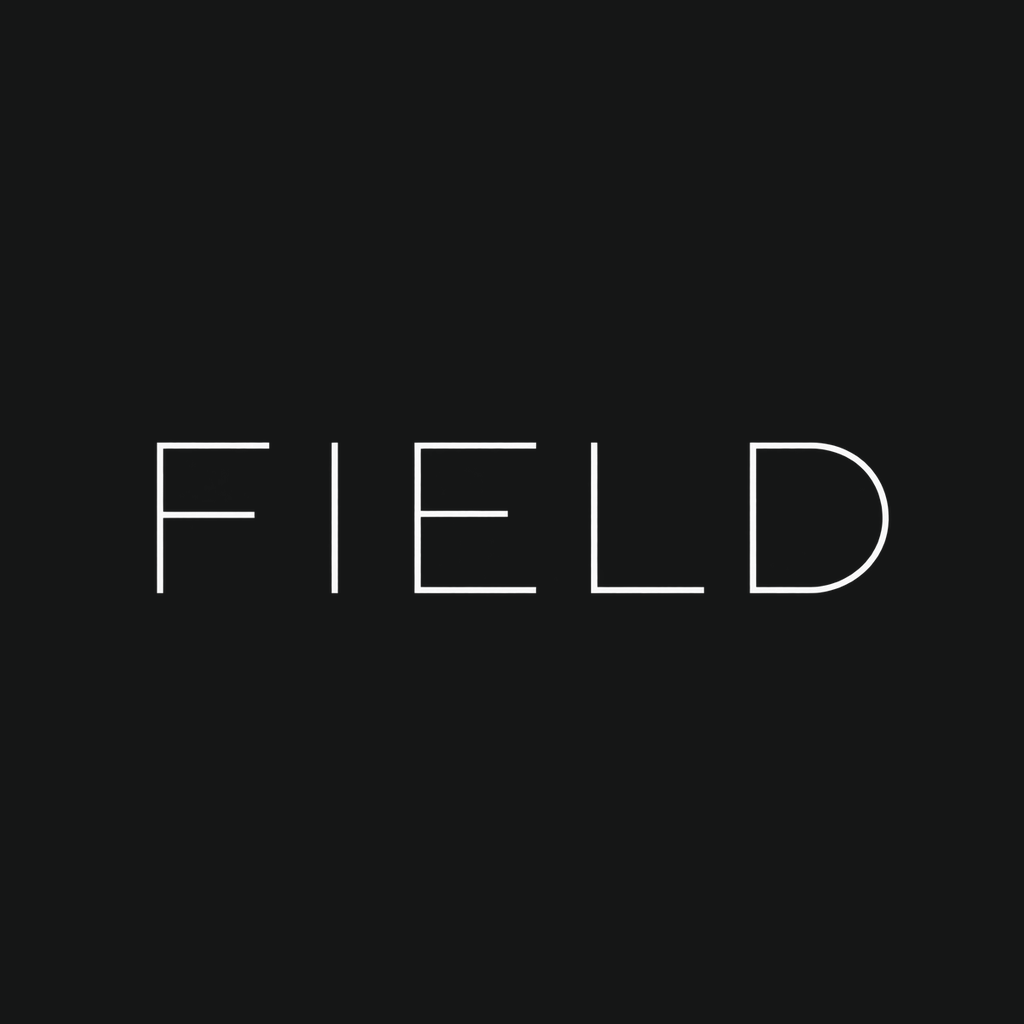
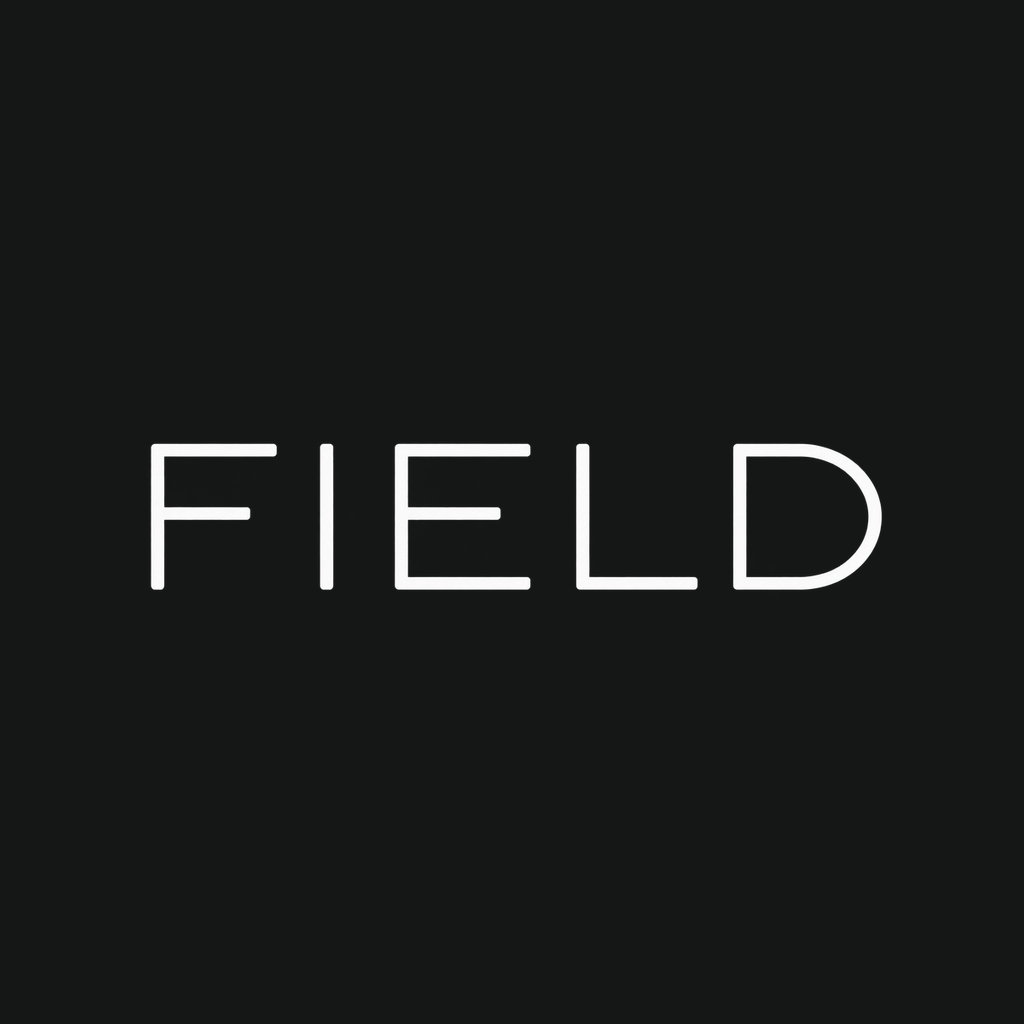
Refresh the FIELD mark and make Workspace FFT show the analyzer.
The new wordmark is the logo and app icon. Horizontal EQ icons sit smaller and closer under the dial. The Workspace header uses one underline style, and the FFT context panel holds analyzer settings instead of EQ filters.

diff --git a/src/manual/content.ts b/src/manual/content.ts
@@ -55,7 +55,7 @@ const en: ManualSection[] = [
       'Technical has two presentations. Classic is the current layout. Workspace (Experimental) reorganizes the same Technical controls: a chain, one active workspace (Wave, EQ, FFT, Auto, or Hearing), contextual controls, and transport. It uses the same audio engine and the same features.',
       'Focus Mode is that same workspace without the surrounding chrome. Enter Focus from the workspace header. Exit Focus returns the chrome without changing the sound, the selection, or the playhead.',
       'Workspace is experimental. Settings → Technical interface → Classic switches back immediately. The choice is saved in this browser. It does not add another mode beside Simple, Technical, and Sensory.',
-      'Hearing in Workspace keeps the selected effect in the context panel. The loudness words sit beside the output meter on the right. Analyzer settings open above the spectrum. History, the picture, the analyzer, and display each keep their own rows, in the same type as the workspace bar.',
+      'FFT in Workspace puts the analyzer settings in the context panel. That panel does not list EQ filters. The FFT bar keeps Before, After, Both, and 2D / 3D. History, the picture, the analyzer, and display each keep their own rows, in the same type as the workspace bar. Hearing in Workspace keeps the selected effect in the context panel. The loudness words sit beside the output meter on the right.',
       'EQ in Workspace opens in the inspector. Each filter is one full-width row: a type selector and the knobs that filter uses. Add band creates the next filter. The graph uses the full height above the transport. An icon in the inspector opens vertical strips under the graph; drag the bar between them to change that panel’s height. An icon at the corner of the strip panel returns to the inspector. FIELD remembers that choice only for EQ. Adding or selecting another effect shows that effect’s inspector.',
     ],
   },
@@ -373,7 +373,7 @@ const pl: ManualSection[] = [
       'Technical ma dwa układy. Klasyczny to dotychczasowy widok. Workspace (eksperymentalny) układa te same kontrolki inaczej: łańcuch, jeden aktywny obszar (Fala, EQ, FFT, Auto albo Hearing), kontrolki kontekstu i transport. Korzysta z tego samego silnika i tych samych funkcji.',
       'Tryb Focus to ten sam obszar bez otaczającej ramki. Wejście jest w nagłówku obszaru. Wyjście przywraca ramkę i nie zmienia dźwięku, zaznaczenia ani głowicy.',
       'Workspace jest eksperymentalny. Ustawienia → Interfejs techniczny → Klasyczny wraca od razu. Wybór zostaje w tej przeglądarce. To nie jest kolejny tryb obok Prostego, Technical i Sensorycznego.',
-      'Hearing w Workspace zostawia wybrany efekt w panelu kontekstu. Słowa głośności stoją obok wskaźnika wyjścia po prawej. Ustawienia analizatora otwierają się nad widmem. Historia, obraz, analizator i wyświetlanie mają osobne rzędy, w tym samym stylu co pasek Workspace.',
+      'FFT w Workspace trzyma ustawienia analizatora w panelu kontekstu. Ten panel nie pokazuje filtrów EQ. Pasek FFT zostawia Before, After, Both oraz 2D / 3D. Historia, obraz, analizator i wyświetlanie mają osobne rzędy, w tym samym stylu co pasek Workspace. Hearing w Workspace zostawia wybrany efekt w panelu kontekstu. Słowa głośności stoją obok wskaźnika wyjścia po prawej.',
       'EQ w Workspace otwiera się w inspektorze. Każdy filtr to jeden rząd na całą szerokość: selektor typu i gałki tego filtra. Dodaj pasmo tworzy kolejny filtr. Wykres zajmuje całą wysokość nad transportem. Ikona w inspektorze otwiera pionowe paski pod wykresem; przeciągnięcie belki między nimi zmienia wysokość tego panelu. Ikona w rogu panelu pasków wraca do inspektora. Ten wybór jest pamiętany tylko dla EQ. Dodanie albo zaznaczenie innego efektu pokazuje jego inspektor.',
     ],
   },

diff --git a/src/components/header/AppHeader.module.css b/src/components/header/AppHeader.module.css
@@ -365,11 +365,73 @@
     row-gap: 0;
   }
 
-  .header.minimal .file,
-  .minimal .file {
-    max-width: 42vw;
-    overflow: hidden;
-    text-overflow: ellipsis;
-    white-space: nowrap;
-  }
+.header.minimal .file,
+.minimal .file {
+  max-width: 42vw;
+  overflow: hidden;
+  text-overflow: ellipsis;
+  white-space: nowrap;
+}
+}
+
+/* Workspace uses one quiet bar: text controls, an underline on the active one. */
+:global([data-technical-ui='workspace']) .header {
+  min-height: 32px;
+  gap: 2px 6px;
+  border-bottom: 1px solid var(--border-subtle);
+}
+
+:global([data-technical-ui='workspace']) .tools,
+:global([data-technical-ui='workspace']) .trailing,
+:global([data-technical-ui='workspace']) .utilities {
+  gap: 0;
+}
+
+:global([data-technical-ui='workspace']) .load,
+:global([data-technical-ui='workspace']) .settings,
+:global([data-technical-ui='workspace']) .lfo,
+:global([data-technical-ui='workspace']) .rec {
+  border: 0;
+  border-radius: 0 !important;
+  background: transparent;
+  height: 32px;
+  min-height: 32px;
+  padding: 0 6px;
+  font-size: 11px;
+  letter-spacing: 0.12em;
+  color: var(--text-secondary);
+}
+
+:global([data-technical-ui='workspace']) .load:hover,
+:global([data-technical-ui='workspace']) .settings:hover,
+:global([data-technical-ui='workspace']) .lfo:hover {
+  background: transparent;
+  color: var(--text-primary);
+}
+
+:global([data-technical-ui='workspace']) .settings[aria-expanded='true'],
+:global([data-technical-ui='workspace']) .lfoOn,
+:global([data-technical-ui='workspace']) .lfoLive {
+  border: 0;
+  background: transparent;
+  color: var(--text-primary);
+  box-shadow: inset 0 -1px 0 var(--accent-primary);
+}
+
+:global([data-technical-ui='workspace']) .rec {
+  color: var(--danger);
+}
+
+:global([data-technical-ui='workspace']) .recOn {
+  border: 0;
+  background: transparent;
+  color: var(--danger);
+  box-shadow: inset 0 -1px 0 var(--danger);
+}
+
+:global([data-technical-ui='workspace']) .meta {
+  gap: 8px;
+  padding: 0 6px;
+  font-size: 11px;
+  letter-spacing: 0.06em;
 }

diff --git a/src/app/App.tsx b/src/app/App.tsx
@@ -79,6 +79,7 @@ import { TechnicalUiSwitch } from '../components/workspace/TechnicalUiSwitch'
 import { WorkspaceTabs } from '../components/workspace/WorkspaceTabs'
 import { ContextBar } from '../components/workspace/ContextBar'
 import { SelectionToolbar } from '../components/workspace/SelectionToolbar'
+import { AnalyzerSettingsMenu } from '../components/workspace/AnalyzerSettingsMenu'
 import { FftPrimaryBar } from '../components/workspace/FftPrimaryBar'
 import { vizForWorkspace, workspaceFromViz, type TechnicalWorkspaceId } from '../components/workspace/workspaces'
 import { countHiddenActivity } from '../components/workspace/disclosure'
@@ -872,9 +873,14 @@ export default function App() {
         </button>
       </p>
     ) : null
+  const fftInspector = workspaceOn && workspaceId === 'fft'
   const inspector = showContext ? (
     <>
-      {resolvedFocus.kind === 'automation' ? (
+      {fftInspector ? (
+        <div className={ws.analyzerPanel} data-fft-inspector="">
+          <AnalyzerSettingsMenu />
+        </div>
+      ) : resolvedFocus.kind === 'automation' ? (
       <AutomationInspector
         sheet={sheet && !isPhoneLayout && activeSheetLevel !== 'expanded'}
         compact={isPhoneLayout}

diff --git a/src/components/header/Wordmark.module.css b/src/components/header/Wordmark.module.css
@@ -12,8 +12,8 @@
 .logo {
   display: block;
   flex: none;
-  height: 18px;
-  aspect-ratio: 960 / 331;
+  height: 20px;
+  aspect-ratio: 960 / 320;
   background: var(--text-primary);
   -webkit-mask: url('../../assets/field-wordmark.png') center / contain no-repeat;
   mask: url('../../assets/field-wordmark.png') center / contain no-repeat;
@@ -23,8 +23,16 @@
   height: 16px;
 }
 
+:global([data-technical-ui='workspace']) .logo {
+  height: 22px;
+}
+
+:global([data-technical-ui='workspace']) .compact .logo {
+  height: 16px;
+}
+
 .editorial .logo {
-  height: 18px;
+  height: 20px;
 }
 
 .gate {

diff --git a/src/components/header/ThemePicker.module.css b/src/components/header/ThemePicker.module.css
@@ -25,6 +25,24 @@
   color: var(--text-primary);
 }
 
+:global([data-technical-ui='workspace']) .trigger {
+  height: 32px;
+  min-height: 32px;
+  padding: 0 6px;
+  border: 0;
+  border-radius: 0 !important;
+  background: transparent;
+  font-size: 11px;
+  letter-spacing: 0.12em;
+}
+
+:global([data-technical-ui='workspace']) .trigger:hover,
+:global([data-technical-ui='workspace']) .trigger[aria-expanded='true'] {
+  background: transparent;
+  color: var(--text-primary);
+  box-shadow: inset 0 -1px 0 var(--accent-primary);
+}
+
 .triggerLabel {
   min-width: 0;
 }

diff --git a/src/components/controls/Knob.module.css b/src/components/controls/Knob.module.css
@@ -82,19 +82,25 @@
 .actionsBelow {
   position: static;
   width: 100%;
-  height: 16px;
-  min-height: 16px;
-  margin-top: 2px;
-  gap: 6px;
+  height: 12px;
+  min-height: 12px;
+  margin-top: 0;
+  gap: 3px;
   align-items: center;
 }
 
 .actionsBelow :global(button) {
-  width: 16px;
-  min-width: 16px;
-  height: 16px;
-  min-height: 16px;
+  width: 12px;
+  min-width: 12px;
+  height: 12px;
+  min-height: 12px;
   padding: 0;
+  font-size: 10px;
+}
+
+.actionsBelow :global(svg) {
+  width: 10px;
+  height: 10px;
 }
 
 .knob:hover .modSlot :global(button),

diff --git a/src/components/random/Random.module.css b/src/components/random/Random.module.css
@@ -381,6 +381,25 @@
   color: var(--accent-primary);
 }
 
+:global([data-technical-ui='workspace']) .chaos {
+  height: 32px;
+  min-height: 32px;
+  padding: 0 6px;
+  border: 0;
+  border-radius: 0 !important;
+  background: transparent;
+  font-size: 11px;
+  font-weight: 500;
+  letter-spacing: 0.12em;
+}
+
+:global([data-technical-ui='workspace']) .chaos[data-on='true'] {
+  border: 0;
+  background: transparent;
+  color: var(--text-primary);
+  box-shadow: inset 0 -1px 0 var(--accent-primary);
+}
+
 .more {
   min-width: 28px;
   min-height: 28px;

diff --git a/src/modes/ModeSwitch.module.css b/src/modes/ModeSwitch.module.css
@@ -80,3 +80,25 @@
   visibility: hidden;
   box-shadow: none;
 }
+
+:global([data-technical-ui='workspace']) .switch {
+  gap: 0;
+  padding: 0;
+  border: 0;
+  border-radius: 0;
+  background: transparent;
+}
+
+:global([data-technical-ui='workspace']) .opt {
+  min-height: 32px;
+  padding: 0 6px;
+  border-radius: 0 !important;
+  font-size: 11px;
+  letter-spacing: 0.12em;
+}
+
+:global([data-technical-ui='workspace']) .opt.on {
+  background: transparent;
+  color: var(--text-primary);
+  box-shadow: inset 0 -1px 0 var(--accent-primary);
+}

diff --git a/src/components/header/ResetSessionButton.module.css b/src/components/header/ResetSessionButton.module.css
@@ -40,6 +40,23 @@
   color: var(--text-primary);
 }
 
+:global([data-technical-ui='workspace']) .toolbar {
+  height: 32px;
+  min-height: 32px;
+  padding: 0 6px;
+  border: 0;
+  border-radius: 0 !important;
+  background: transparent;
+  font-size: 11px;
+  letter-spacing: 0.12em;
+}
+
+:global([data-technical-ui='workspace']) .toolbar:hover,
+:global([data-technical-ui='workspace']) .toolbar:focus-visible {
+  background: transparent;
+  color: var(--text-primary);
+}
+
 .menu {
   width: 100%;
   text-align: left;

diff --git a/src/components/workspace/Workspace.module.css b/src/components/workspace/Workspace.module.css
@@ -358,6 +358,11 @@
   flex: 1;
 }
 
+.analyzerPanel {
+  min-width: 0;
+  padding: 4px 4px 16px;
+}
+
 .badge {
   margin-left: 6px;
   color: var(--accent-primary);
